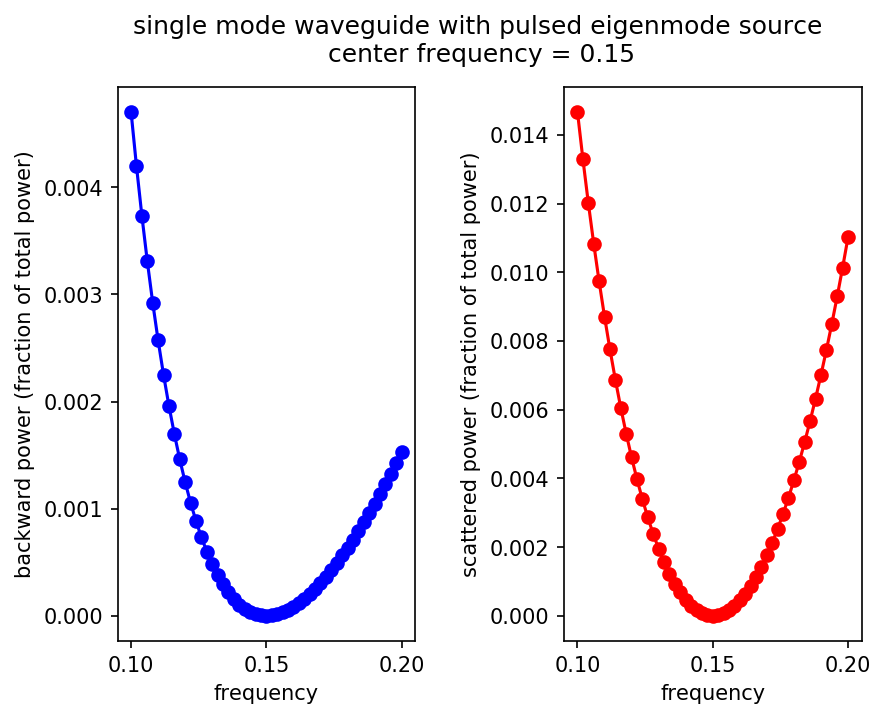
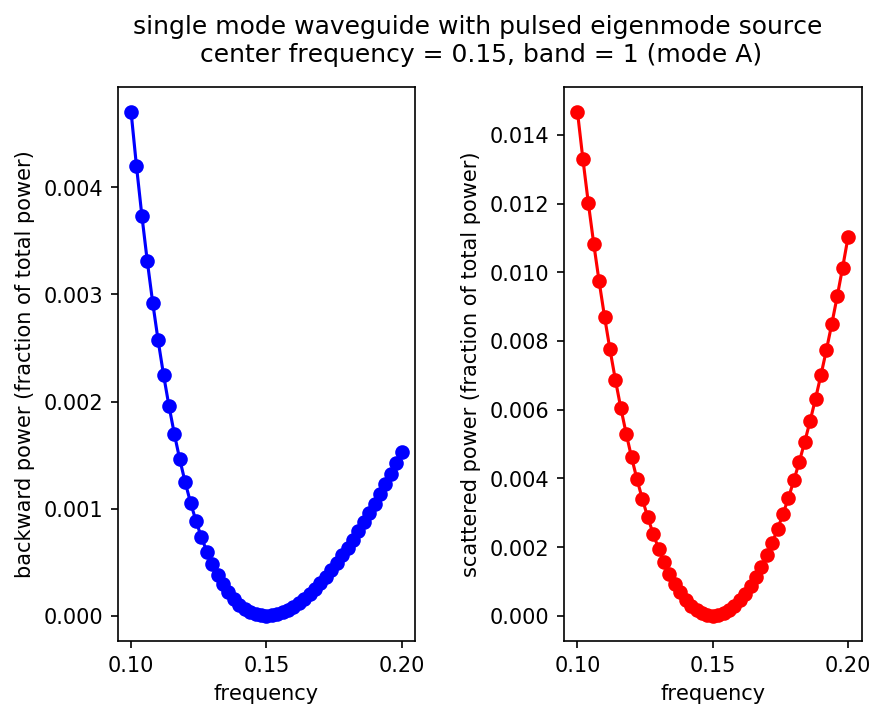
Scheme tutorial example for broadband eigenmode sources

Changed region(s): [[0.2133, 0.0612, 0.8533, 0.0918]]

diff --git a/python/examples/oblique-source.py b/python/examples/oblique-source.py
@@ -15,15 +15,14 @@ w = 1.0 # width of waveguide
 
 geometry = [mp.Block(center=mp.Vector3(),
                      size=mp.Vector3(mp.inf,w,mp.inf),
-                     e1=mp.Vector3(1).rotate(mp.Vector3(z=1), rot_angle),
+                     e1=mp.Vector3(x=1).rotate(mp.Vector3(z=1), rot_angle),
                      e2=mp.Vector3(y=1).rotate(mp.Vector3(z=1), rot_angle),
                      material=mp.Medium(epsilon=12))]
 
 fsrc = 0.15 # frequency of eigenmode or constant-amplitude source
-kx = 0.4    # initial guess for wavevector in x-direction of eigenmode
 bnum = 1    # band number of eigenmode
 
-kpoint = mp.Vector3(kx).rotate(mp.Vector3(z=1), rot_angle)
+kpoint = mp.Vector3(x=1).rotate(mp.Vector3(z=1), rot_angle)
 
 compute_flux = True # compute flux (True) or plot the field profile (False)
 

diff --git a/doc/docs/Python_Tutorials/Eigenmode_Source.md b/doc/docs/Python_Tutorials/Eigenmode_Source.md
@@ -17,9 +17,9 @@ The first structure, shown in the schematic below, is a 2d ridge waveguide with 
 
 The simulation script is in [examples/oblique-source.py](https://github.com/NanoComp/meep/blob/master/python/examples/oblique-source.py). The notebook is [examples/oblique-source.ipynb](https://nbviewer.jupyter.org/github/NanoComp/meep/blob/master/python/examples/oblique-source.ipynb).
 
-The simulation consists of two separate parts: (1) computing the Poynting flux and (2) plotting the field profile. The field profile is generated by setting the flag `compute_flux=False`. For the single-mode case, a constant-amplitude current source (`eig_src=False`) excites both the waveguide mode and radiating fields in *both* directions (i.e., forwards and backwards). This is shown in the main inset of the first of two figures above. The `EigenModeSource` excites only the *forward-going* waveguide mode **A** as shown in the smaller inset. Launching this mode requires setting `eig_src=True`, `fsrc=0.15`, `kx=0.4`, and `bnum=1`. Note that the length of the `EigenModeSource` must be large enough that it captures the entire guided mode (i.e., the fields should decay to roughly zero at the edges). The line source does *not* need to span the entire length of the cell but should be slightly larger than the waveguide width. The parameter `rot_angle` specifies the rotation angle of the waveguide axis and is initially 0° (i.e., straight or horizontal orientation). This enables `eig_parity` to include `EVEN_Y` in addition to `ODD_Z` and the simulation to include an overall mirror symmetry plane in the $y$-direction.
+The simulation consists of two separate parts: (1) computing the Poynting flux and (2) plotting the field profile. The field profile is generated by setting the flag `compute_flux=False`. For the single-mode case, a constant-amplitude current source (`eig_src=False`) excites both the waveguide mode and radiating fields in *both* directions (i.e., forwards and backwards). This is shown in the main inset of the first of two figures above. The `EigenModeSource` excites only the *forward-going* waveguide mode **A** as shown in the smaller inset. Launching this mode requires setting `eig_src=True`, `fsrc=0.15`, and `bnum=1`. Note that the length of the `EigenModeSource` must be large enough that it captures the entire guided mode (i.e., the fields should decay to roughly zero at the edges). The line source does *not* need to span the entire length of the cell but should be slightly larger than the waveguide width. The parameter `rot_angle` specifies the rotation angle of the waveguide axis and is initially 0° (i.e., straight or horizontal orientation). This enables `eig_parity` to include `EVEN_Y` in addition to `ODD_Z` and the simulation to include an overall mirror symmetry plane in the $y$-direction.
 
-For the multi-mode case, a constant-amplitude current source excites a superposition of the two waveguide modes in addition to the radiating field. This is shown in the main inset of the second figure above. The `EigenModeSource` excites only a given mode: **A** (`fsrc=0.35`, `kx=0.4`, `bnum=2`) or **B** (`fsrc=0.35`, `kx=1.2`, `bnum=1`) as shown in the smaller insets.
+For the multi-mode case, a constant-amplitude current source excites a superposition of the two waveguide modes in addition to the radiating field. This is shown in the main inset of the second figure above. The `EigenModeSource` excites only a given mode: **A** (`fsrc=0.35`, `bnum=2`) or **B** (`fsrc=0.35`, `bnum=1`) as shown in the smaller insets.
 
 ```py
 import meep as mp
@@ -39,15 +39,14 @@ w = 1.0 # width of waveguide
 
 geometry = [mp.Block(center=mp.Vector3(),
                      size=mp.Vector3(mp.inf,w,mp.inf),
-                     e1=mp.Vector3(1).rotate(mp.Vector3(z=1), rot_angle),
+                     e1=mp.Vector3(x=1).rotate(mp.Vector3(z=1), rot_angle),
                      e2=mp.Vector3(y=1).rotate(mp.Vector3(z=1), rot_angle),
                      material=mp.Medium(epsilon=12))]
 
 fsrc = 0.15 # frequency of eigenmode or constant-amplitude source
-kx = 0.4    # initial guess for wavevector in x-direction of eigenmode
 bnum = 1    # band number of eigenmode
 
-kpoint = mp.Vector3(kx).rotate(mp.Vector3(z=1), rot_angle)
+kpoint = mp.Vector3(x=1).rotate(mp.Vector3(z=1), rot_angle)
 
 compute_flux = True # compute flux (True) or plot the field profile (False)
 
@@ -92,13 +91,13 @@ else:
     plt.show()
 ```
 
-Note that in `EigenModeSource` as well as `get_eigenmode_coefficients`, the `direction` property must be set to `NO_DIRECTION` for a non-zero `eig_kpoint` which specifies the waveguide axis.
+Note that in `EigenModeSource` as well as `get_eigenmode_coefficients`, the `direction` property must be set to `NO_DIRECTION` whenever `eig_kpoint` specifies the waveguide axis.
 
 ### What Happens When the Source Time Profile is a Pulse?
 
-The eigenmode source launches a fixed spatial mode profile specified by either its frequency (`eig_match_freq=True`) or wavevector (`eig_kpoint`) multiplied by the time profile.  When the time profile of the source has a finite bandwidth, e.g. a [Gaussian pulse](Python_User_Interface.md#gaussiansource) (which is typical for calculations involving [Fourier-transformed fields](FAQ.md#for-calculations-involving-fourier-transformed-fields-why-should-the-source-be-a-pulse-rather-than-a-continuous-wave) such as [mode coefficients or S-parameters](Python_Tutorials/GDSII_Import.md)), then the frequency-dependence (dispersion) of the true modal pattern means that the eigenmode source does not match the desired mode exactly over the whole bandwidth.  This is described in section 4.2.2 of our ["Electromagnetic Wave Source Conditions"](https://arxiv.org/abs/1301.5366) review article.   A more accurate mode profile may be obtained by adding multiple narrow-band eigenmode sources at the same position at several frequencies across the bandwidth, but this has the disadvantage that the runtime increases as you add more frequency points due to the narrower source bandwidths.  However, a *single* broadband eigenmode source is often sufficient for most practical applications (excepting cases with extreme modal dispersion, e.g. near a cutoff frequency).
+The eigenmode source launches a fixed spatial mode profile specified by either its frequency (`eig_match_freq=True`) or wavevector (`eig_match_freq=False`) multiplied by the time profile.  When the time profile of the source has a finite bandwidth, e.g. a [Gaussian pulse](../Python_User_Interface.md#gaussiansource) (which is typical for calculations involving [Fourier-transformed fields](../FAQ.md#for-calculations-involving-fourier-transformed-fields-why-should-the-source-be-a-pulse-rather-than-a-continuous-wave) such as [mode coefficients or S-parameters](GDSII_Import.md#s-parameters-of-a-directional-coupler)), then the frequency-dependence (dispersion) of the true modal pattern means that the eigenmode source does not match the desired mode exactly over the whole bandwidth. This is described in Section 4.2.2 of the review article [Electromagnetic Wave Source Conditions](https://arxiv.org/abs/1301.5366). A more accurate mode profile may be obtained by adding multiple narrow-band eigenmode sources at the same position at several frequencies across the bandwidth, but this has the disadvantage that the runtime increases as you add more frequency points due to the narrower source bandwidths. However, a *single* broadband eigenmode source is often sufficient for most practical applications (excepting cases with extreme modal dispersion, e.g. near a cutoff frequency).
 
-This can be demonstrated by computing the error in a broadband eigenmode source via the backward-propagating and scattered power (i.e., any fields which are not forward-propagating waveguide modes) for the single and multi mode ridge waveguides.
+This can be demonstrated by computing the error in a broadband eigenmode source via the backward-propagating and scattered power (i.e., any fields which are not forward-propagating waveguide modes) for the single and multi mode ridge waveguide.
 
 ```py
 import meep as mp
@@ -120,22 +119,19 @@ geometry = [mp.Block(center=mp.Vector3(),
                      material=mp.Medium(epsilon=12))]
 
 fsrc = 0.35 # frequency of eigenmode source
-kx = 1.2    # initial guess for wavevector in x-direction of eigenmode
 bnum = 1    # band number of eigenmode
 
 df = 0.1    # frequency width
 nfreq = 51  # number of frequencies
 
-symmetries = [mp.Mirror(mp.Y)]
-
 sources = [mp.EigenModeSource(src=mp.GaussianSource(fsrc,fwidth=df),
                               center=mp.Vector3(0,0),
                               size=mp.Vector3(0,sxy),
-                              direction=mp.NO_DIRECTION,
                               eig_parity=mp.EVEN_Y+mp.ODD_Z,
-                              eig_kpoint=mp.Vector3(kx),
                               eig_band=bnum,
                               eig_match_freq=True)]
+
+symmetries = [mp.Mirror(mp.Y)]
 
 sim = mp.Simulation(cell_size=cell_size,
                     resolution=resolution,
@@ -180,7 +176,7 @@ if mp.am_master():
     plt.savefig('multi_mode_eigsource_B.png',dpi=150,bbox_inches='tight')
 ```
 
-Results are shown for the single mode waveguide with one eigenmode **A** (band 1) and multi mode waveguide with two eigenmodes **A** (higher-order mode, band 2) and **B** (fundamental mode, band 1), all with a center frequency of `0.35`.
+Results are shown for the single mode waveguide with one eigenmode **A** (band 1) using a center frequency of `0.15` and multi mode waveguide with two eigenmodes **A** (higher-order mode, band 2) and **B** (fundamental mode, band 1), all with a center frequency of `0.35`.
 
 <center>
 ![](../images/single_mode_eigsource_pulse.png)
@@ -196,7 +192,7 @@ Results are shown for the single mode waveguide with one eigenmode **A** (band 1
 
 These results demonstrate that in all cases the error is nearly 0 at the center frequency and increases roughly quadratically away from the center frequency. The error tends to be smallest for single-mode waveguides because a localized source excitation couples most strongly into guided modes. Note that in this case the maximum error is ~1% for a source bandwidth that is 67% of its center frequency.  For the multi-mode waveguide, a much larger scattering loss is obtained for the higher-order mode **A** at frequencies below the center frequency, but this is simply because that mode ceases to be guided around a frequency `≈ 0.3`, and the mode pattern changes dramatically as this cutoff is approached.
 
-Another thing to keep in mind is that, even if the modes are imperfectly launched (some power leaks into radiation or into the backward direction), correct result can still be obtained by the standard procedure of normalizing against a separate straight-waveguide run (and subtracting off fields before computing reflected fluxes), as explained in the [Meep Introduction](Introduction.md#transmittancereflectance-spectra).   More accurate mode launching may be required for multi-mode waveguide systems, however, as power coupled into an undesired *guided* mode will not typically decay away.
+Another thing to keep in mind is that, even if the modes are imperfectly launched (some power leaks into radiation or into the backward direction), the correct result involving the Poynting flux can still be obtained by the standard procedure of normalizing against a separate straight-waveguide run (and subtracting off fields before computing reflected fluxes), as explained in [Introduction](../Introduction.md#transmittancereflectance-spectra). More accurate mode launching may be required for multi-mode waveguide systems, however, as power coupled into an undesired *guided* mode will not typically decay away.
 
 ### Oblique Waveguides
 

diff --git a/doc/docs/Scheme_Tutorials/Eigenmode_Source.md b/doc/docs/Scheme_Tutorials/Eigenmode_Source.md
@@ -17,9 +17,9 @@ The first structure, shown in the schematic below, is a 2d ridge waveguide with 
 
 The simulation script is in [examples/oblique-source.ctl](https://github.com/NanoComp/meep/blob/master/scheme/examples/oblique-source.ctl).
 
-The simulation consists of two parts: (1) computing the Poynting flux and (2) plotting the field profile. The field profile is generated by setting the flag `compute-flux=false`. For the single-mode case, a constant-amplitude current source (`eig-src=false`) excites both the waveguide mode and radiating fields in *both* directions (i.e., forwards and backwards). This is shown in the main inset of the first of two figures above. The `eigenmode-source` excites only the *forward-going* waveguide mode **A** as shown in the smaller inset. Launching this mode requires setting `eig-src=true`, `fsrc=0.15`, `kx=0.4`, and `bnum=1`. Note that the length of the `EigenModeSource` must be large enough that it captures the entire guided mode (i.e., the fields should decay to roughly zero at the edges). The line source does *not* need to span the entire length of the cell but should be slightly larger than the waveguide width. The parameter `rot-angle` specifies the rotation angle of the waveguide axis and is initially 0° (i.e., straight or horizontal orientation). This enables `eig-parity` to include `EVEN-Y` in addition to `ODD-Z` and the cell to include an overall mirror symmetry plane in the $y$-direction.
+The simulation consists of two parts: (1) computing the Poynting flux and (2) plotting the field profile. The field profile is generated by setting the flag `compute-flux=false`. For the single-mode case, a constant-amplitude current source (`eig-src=false`) excites both the waveguide mode and radiating fields in *both* directions (i.e., forwards and backwards). This is shown in the main inset of the first of two figures above. The `eigenmode-source` excites only the *forward-going* waveguide mode **A** as shown in the smaller inset. Launching this mode requires setting `eig-src=true`, `fsrc=0.15`, and `bnum=1`. Note that the length of the `EigenModeSource` must be large enough that it captures the entire guided mode (i.e., the fields should decay to roughly zero at the edges). The line source does *not* need to span the entire length of the cell but should be slightly larger than the waveguide width. The parameter `rot-angle` specifies the rotation angle of the waveguide axis and is initially 0° (i.e., straight or horizontal orientation). This enables `eig-parity` to include `EVEN-Y` in addition to `ODD-Z` and the cell to include an overall mirror symmetry plane in the $y$-direction.
 
-For the multi-mode case, a constant-amplitude current source excites a superposition of the two waveguide modes in addition to the radiating field. This is shown in the main inset of the second figure above. The `eigenmode-source` excites only a given mode: **A** (`fsrc=0.35`, `kx=0.4`, `bnum=2`) or **B** (`fsrc=0.35`, `kx=1.2`, `bnum=1`) as shown in the smaller insets.
+For the multi-mode case, a constant-amplitude current source excites a superposition of the two waveguide modes in addition to the radiating field. This is shown in the main inset of the second figure above. The `eigenmode-source` excites only a given mode: **A** (`fsrc=0.35`, `bnum=2`) or **B** (`fsrc=0.35`, `bnum=1`) as shown in the smaller insets.
 
 ```scm
 (set-param! resolution 50) ; pixels/μm
@@ -43,10 +43,9 @@ For the multi-mode case, a constant-amplitude current source excites a superposi
                        (material (make medium (epsilon 12))))))
 
 (define-param fsrc 0.15) ; frequency of eigenmode or constant-amplitude source
-(define-param kx 0.4)    ; initial guess for wavevector in x-direction of eigenmode
 (define-param bnum 1)    ; band number of eigenmode
 
-(define kpoint (rotate-vector3 (vector3 0 0 1) rot-angle (vector3 kx 0 0)))
+(define kpoint (rotate-vector3 (vector3 0 0 1) rot-angle (vector3 1 0 0)))
 
 (define-param compute-flux? true) ; compute flux (true) or output the field profile (false)
 
@@ -87,7 +86,119 @@ For the multi-mode case, a constant-amplitude current source excites a superposi
                               (at-end output-efield-z))))
 ```
 
-Note that in `eigenmode-source`, the `direction` property must be set to `NO-DIRECTION` for a non-zero `eig-kpoint` which specifies the waveguide axis.
+Note that in `eigenmode-source`, the `direction` property must be set to `NO-DIRECTION` whenever `eig-kpoint` specifies the waveguide axis.
+
+### What Happens When the Source Time Profile is a Pulse?
+
+The eigenmode source launches a fixed spatial mode profile specified by either its frequency (`eig-match-freq?` is `true`) or wavevector (`eig-match-freq?` is `false`) multiplied by the time profile.  When the time profile of the source has a finite bandwidth, e.g. a [Gaussian pulse](../Scheme_User_Interface.md#gaussian-src) (which is typical for calculations involving [Fourier-transformed fields](../FAQ.md#for-calculations-involving-fourier-transformed-fields-why-should-the-source-be-a-pulse-rather-than-a-continuous-wave) such as [mode coefficients or S-parameters](Mode_Decomposition.md)), then the frequency-dependence (dispersion) of the true modal pattern means that the eigenmode source does not match the desired mode exactly over the whole bandwidth. This is described in Section 4.2.2 of the review article [Electromagnetic Wave Source Conditions](https://arxiv.org/abs/1301.5366). A more accurate mode profile may be obtained by adding multiple narrow-band eigenmode sources at the same position at several frequencies across the bandwidth, but this has the disadvantage that the runtime increases as you add more frequency points due to the narrower source bandwidths. However, a *single* broadband eigenmode source is often sufficient for most practical applications (excepting cases with extreme modal dispersion, e.g. near a cutoff frequency).
+
+This can be demonstrated by computing the error in a broadband eigenmode source via the backward-propagating and scattered power (i.e., any fields which are not forward-propagating waveguide modes) for the single and multi mode ridge waveguide.
+
+```scm
+(set-param! resolution 50) ; pixels/μm
+
+(define-param sxy 10)
+(set! geometry-lattice (make lattice (size sxy sxy no-size)))
+
+(define-param dpml 1)
+(set! pml-layers (list (make pml (thickness dpml))))
+
+(define-param w 1.0) ; width of waveguide
+
+(set! geometry (list (make block
+                       (center 0 0 0)
+                       (size infinity w infinity)
+                       (material (make medium (epsilon 12))))))
+
+(define-param fsrc 0.15) ; frequency of eigenmode source
+(define-param bnum 1)    ; band number of eigenmode
+
+(define df 0.1)          ; frequency width
+(define nfreq 51)        ; number of frequencies
+
+(set! sources (list
+               (make eigenmode-source
+                 (src (make gaussian-src (frequency fsrc) (fwidth df)))
+                 (center 0 0 0)
+                 (size 0 sxy 0)
+                 (eig-parity (+ EVEN-Y ODD-Z))
+                 (eig-band bnum)
+                 (eig-match-freq? true))))
+
+(set! symmetries (list (make mirror-sym (direction Y))))
+
+(define flux-mon-tp (add-flux fsrc df nfreq (make flux-region (center 0 (- (* +0.5 sxy) dpml)) (size (- sxy (* 2 dpml)) 0) (weight +1))))
+(define flux-mon-bt (add-flux fsrc df nfreq (make flux-region (center 0 (+ (* -0.5 sxy) dpml)) (size (- sxy (* 2 dpml)) 0) (weight -1))))
+(define flux-mon-rt (add-flux fsrc df nfreq (make flux-region (center (- (* +0.5 sxy) dpml) 0) (size 0 (- sxy (* 2 dpml))) (weight +1))))
+(define flux-mon-lt (add-flux fsrc df nfreq (make flux-region (center (+ (* -0.5 sxy) dpml) 0) (size 0 (- sxy (* 2 dpml))) (weight -1))))
+
+(run-sources+ 50)
+
+(display-fluxes flux-mon-tp flux-mon-bt flux-mon-rt flux-mon-lt)
+
+(define res (get-eigenmode-coefficients flux-mon-rt (list bnum) #:eig-parity (+ EVEN-Y ODD-Z)))
+(define coeffs (list-ref res 0))
+(define freqs (get-flux-freqs flux-mon-rt))
+
+(map (lambda (nf)
+       (let ((guided-power (sqr (magnitude (array-ref coeffs 0 nf 0)))))
+         (print "guided:, " (number->string (list-ref freqs nf)) ", " (number->string guided-power) "\n")))
+     (arith-sequence 0 1 nfreq))
+```
+
+Results are generated using the following shell script and plotted in Octave/Matlab for the single mode waveguide with one eigenmode **A** (band 1) using a center frequency of `0.15` and multi mode waveguide with two eigenmodes **A** (higher-order mode, band 2) and **B** (fundamental mode, band 1), all with a center frequency of `0.35`.
+
+```sh
+$ meep fsrc=0.15 bnum=1 eigsource-pulse.ctl |tee singlemode-A.out
+$ grep flux1: singlemode-A.out |cut -d, -f2- > singlemode-A-flux.dat
+$ grep guided: singlemode-A.out |cut -d, -f2- > singlemode-A-guided.dat
+
+$ meep fsrc=0.35 bnum=2 eigsource-pulse.ctl |tee multimode-A.out
+$ grep flux1: multimode-A.out |cut -d, -f2- > multimode-A-flux.dat
+$ grep guided: multimode-A.out |cut -d, -f2- > multimode-A-guided.dat
+
+$ meep fsrc=0.35 bnum=1 eigsource-pulse.ctl |tee multimode-B.out
+$ grep flux1: multimode-B.out |cut -d, -f2- > multimode-B-flux.dat
+$ grep guided: multimode-B.out |cut -d, -f2- > multimode-B-guided.dat
+```
+
+```matlab
+fl = dlmread('multimode-B-flux.dat',',');
+gp = dlmread('multimode-B-guided.dat',',');
+
+freqs = fl(:,1);
+flux_total = sum(fl(:,2:5),2);
+back = fl(:,5) ./ flux_total;
+scat = (flux_total - gp(:,2)) ./ flux_total;
+
+subplot(1,2,1);
+plot(freqs,back,'bo-');
+xlabel('frequency');
+ylabel('backward power (fraction of total power)');
+axis tight;
+
+subplot(1,2,2);
+plot(freqs,scat,'ro-');
+xlabel('frequency');
+ylabel('scattered power (fraction of total power)');
+axis tight;
+```
+
+<center>
+![](../images/single_mode_eigsource_pulse.png)
+</center>
+
+<center>
+![](../images/multi_mode_eigsource_pulse_A.png)
+</center>
+
+<center>
+![](../images/multi_mode_eigsource_pulse_B.png)
+</center>
+
+These results demonstrate that in all cases the error is nearly 0 at the center frequency and increases roughly quadratically away from the center frequency. The error tends to be smallest for single-mode waveguides because a localized source excitation couples most strongly into guided modes. Note that in this case the maximum error is ~1% for a source bandwidth that is 67% of its center frequency.  For the multi-mode waveguide, a much larger scattering loss is obtained for the higher-order mode **A** at frequencies below the center frequency, but this is simply because that mode ceases to be guided around a frequency `≈ 0.3`, and the mode pattern changes dramatically as this cutoff is approached.
+
+Another thing to keep in mind is that, even if the modes are imperfectly launched (some power leaks into radiation or into the backward direction), the correct result involving the Poynting flux can still be obtained by the standard procedure of normalizing against a separate straight-waveguide run (and subtracting off fields before computing reflected fluxes), as explained in [Introduction](../Introduction.md#transmittancereflectance-spectra). More accurate mode launching may be required for multi-mode waveguide systems, however, as power coupled into an undesired *guided* mode will not typically decay away.
 
 ### Oblique Waveguides
 
